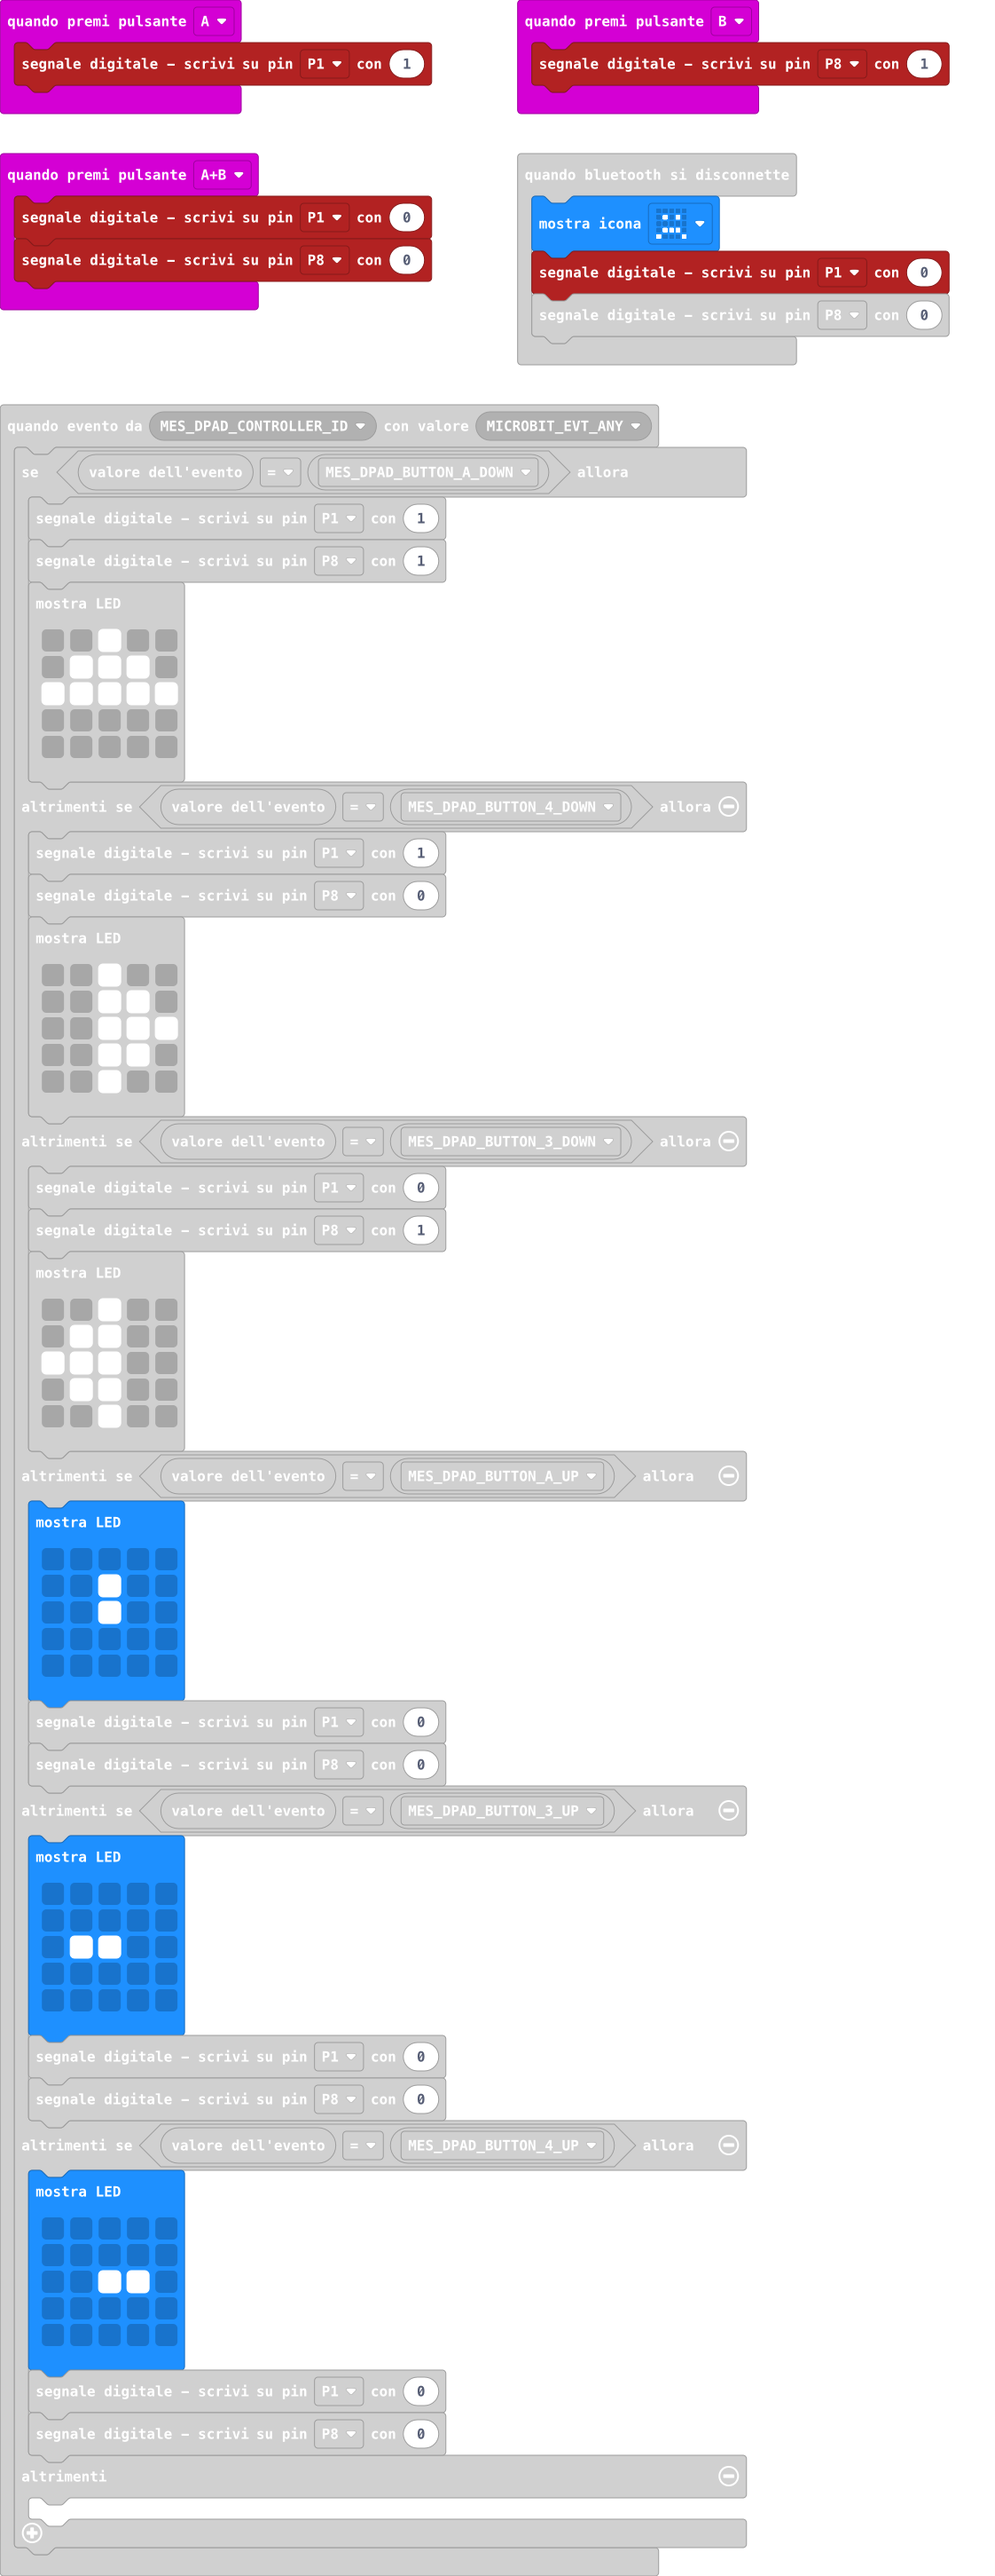
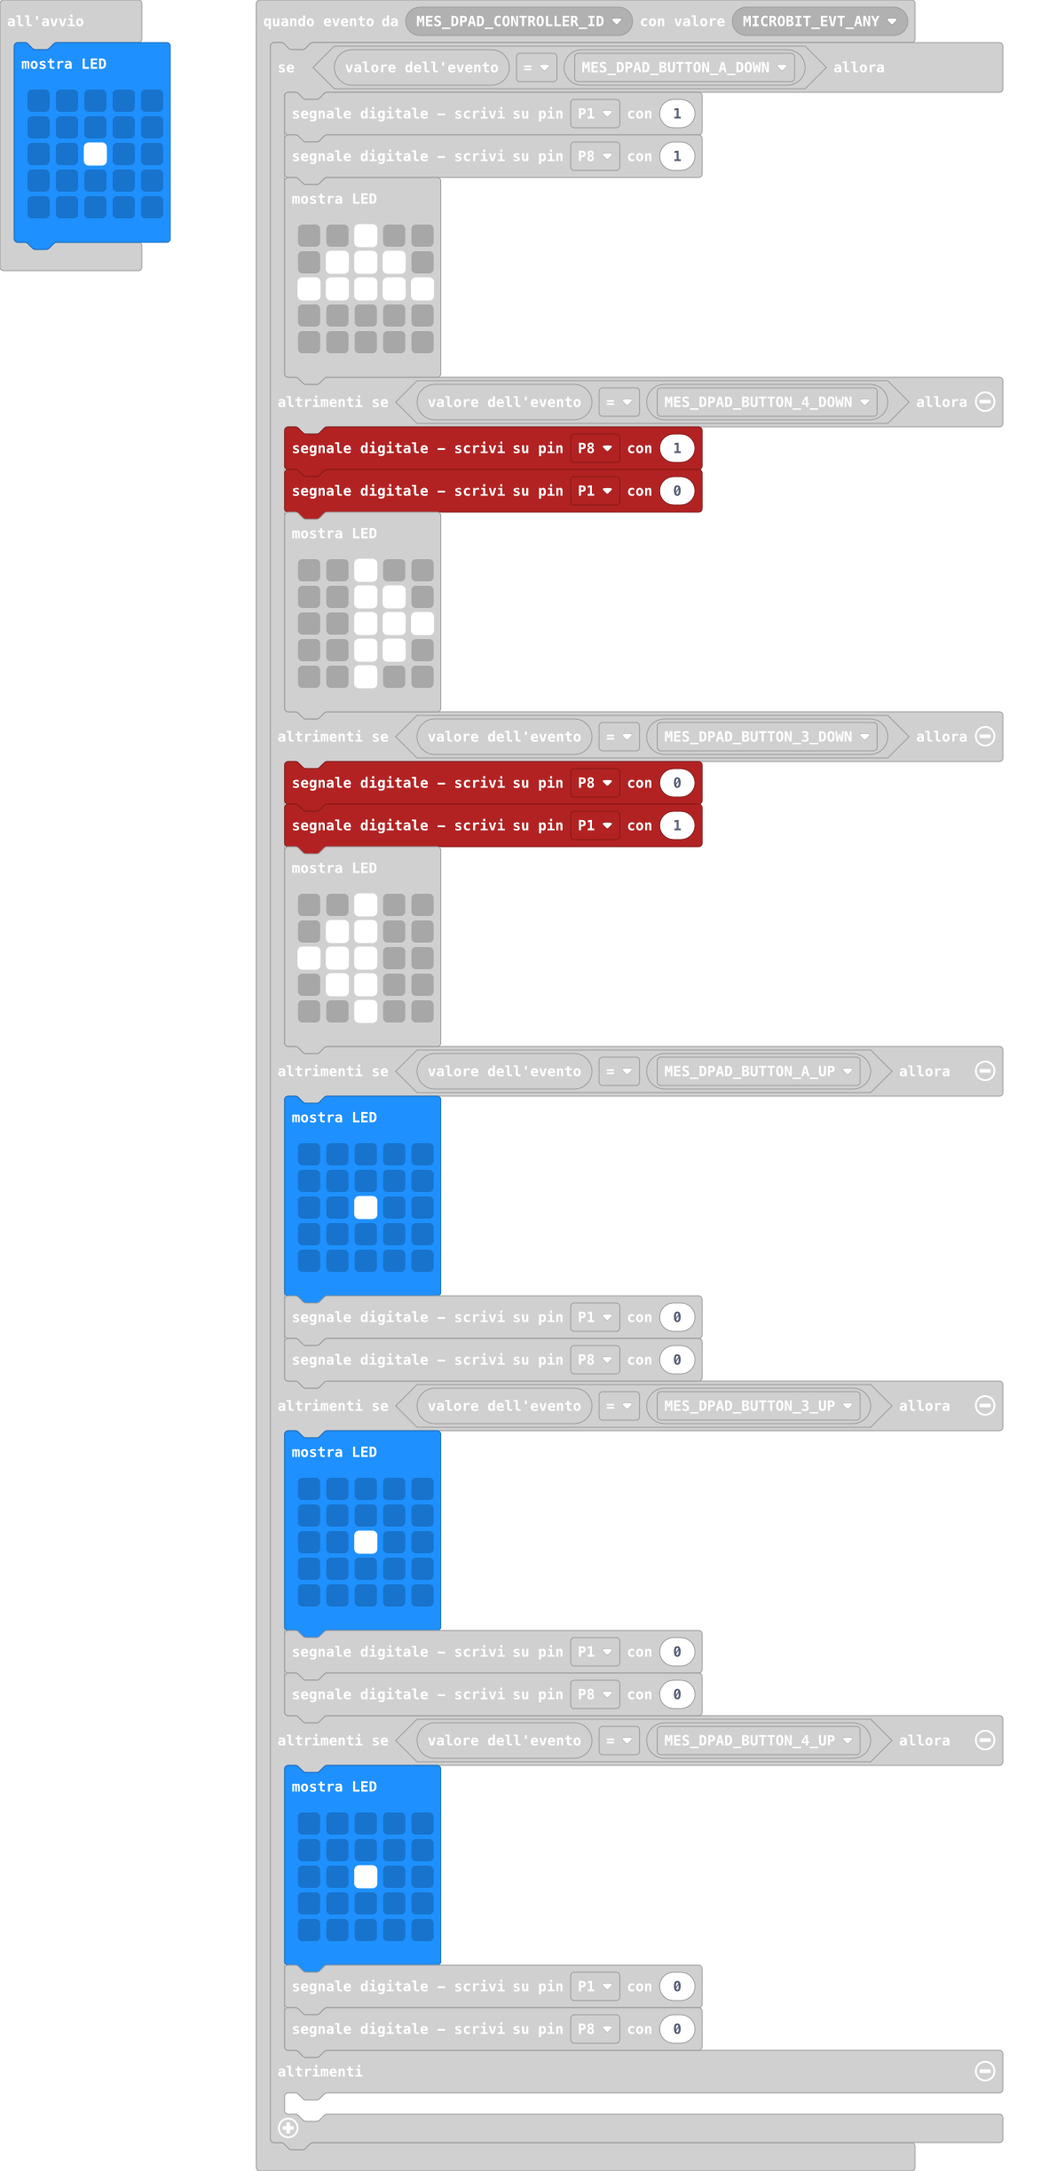
Update main.blocks, main.ts

diff --git a/main.ts b/main.ts
@@ -28,8 +28,8 @@ control.onEvent(EventBusSource.MES_DPAD_CONTROLLER_ID, EventBusValue.MICROBIT_EV
             . . . . .
             `)
     } else if (control.eventValue() == EventBusValue.MES_DPAD_BUTTON_4_DOWN) {
-        pins.digitalWritePin(DigitalPin.P1, 1)
-        pins.digitalWritePin(DigitalPin.P8, 0)
+        pins.digitalWritePin(DigitalPin.P8, 1)
+        pins.digitalWritePin(DigitalPin.P1, 0)
         basic.showLeds(`
             . . # . .
             . . # # .
@@ -38,8 +38,8 @@ control.onEvent(EventBusSource.MES_DPAD_CONTROLLER_ID, EventBusValue.MICROBIT_EV
             . . # . .
             `)
     } else if (control.eventValue() == EventBusValue.MES_DPAD_BUTTON_3_DOWN) {
-        pins.digitalWritePin(DigitalPin.P1, 0)
-        pins.digitalWritePin(DigitalPin.P8, 1)
+        pins.digitalWritePin(DigitalPin.P8, 0)
+        pins.digitalWritePin(DigitalPin.P1, 1)
         basic.showLeds(`
             . . # . .
             . # # . .
@@ -50,7 +50,7 @@ control.onEvent(EventBusSource.MES_DPAD_CONTROLLER_ID, EventBusValue.MICROBIT_EV
     } else if (control.eventValue() == EventBusValue.MES_DPAD_BUTTON_A_UP) {
         basic.showLeds(`
             . . . . .
-            . . # . .
+            . . . . .
             . . # . .
             . . . . .
             . . . . .
@@ -61,7 +61,7 @@ control.onEvent(EventBusSource.MES_DPAD_CONTROLLER_ID, EventBusValue.MICROBIT_EV
         basic.showLeds(`
             . . . . .
             . . . . .
-            . # # . .
+            . . # . .
             . . . . .
             . . . . .
             `)
@@ -71,7 +71,7 @@ control.onEvent(EventBusSource.MES_DPAD_CONTROLLER_ID, EventBusValue.MICROBIT_EV
         basic.showLeds(`
             . . . . .
             . . . . .
-            . . # # .
+            . . # . .
             . . . . .
             . . . . .
             `)
@@ -81,3 +81,10 @@ control.onEvent(EventBusSource.MES_DPAD_CONTROLLER_ID, EventBusValue.MICROBIT_EV
     	
     }
 })
+basic.showLeds(`
+    . . . . .
+    . . . . .
+    . . # . .
+    . . . . .
+    . . . . .
+    `)
